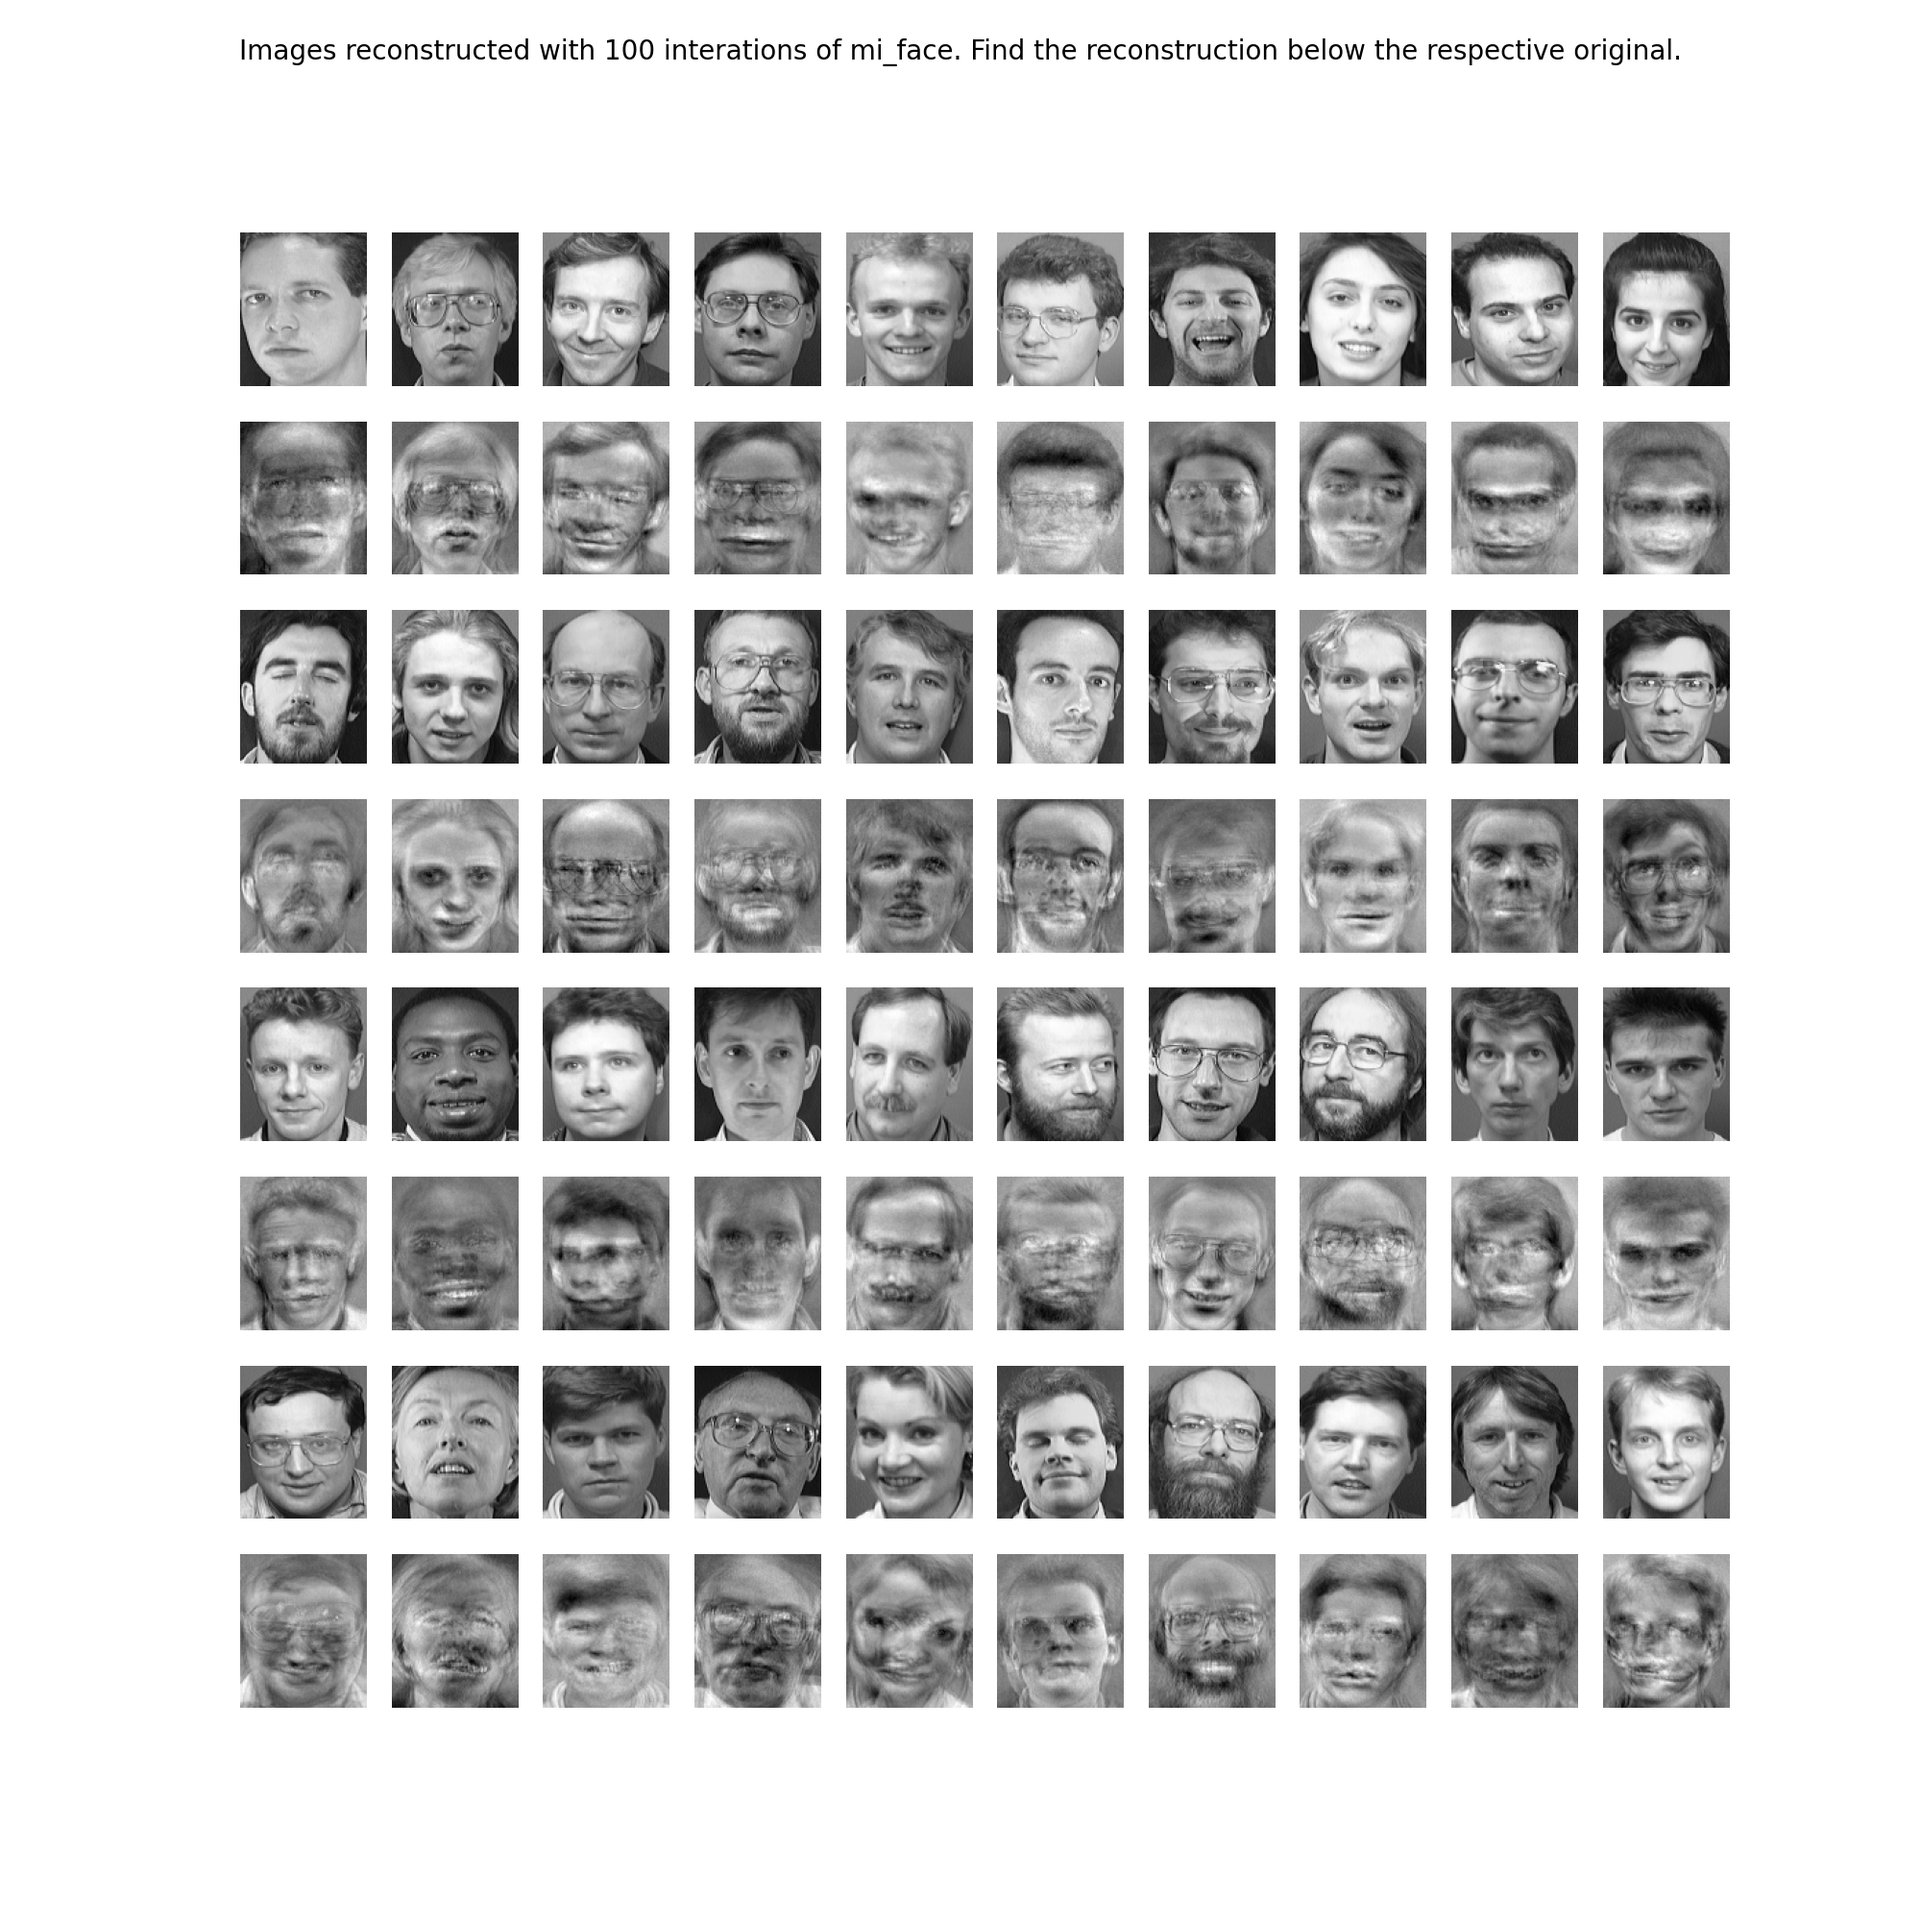
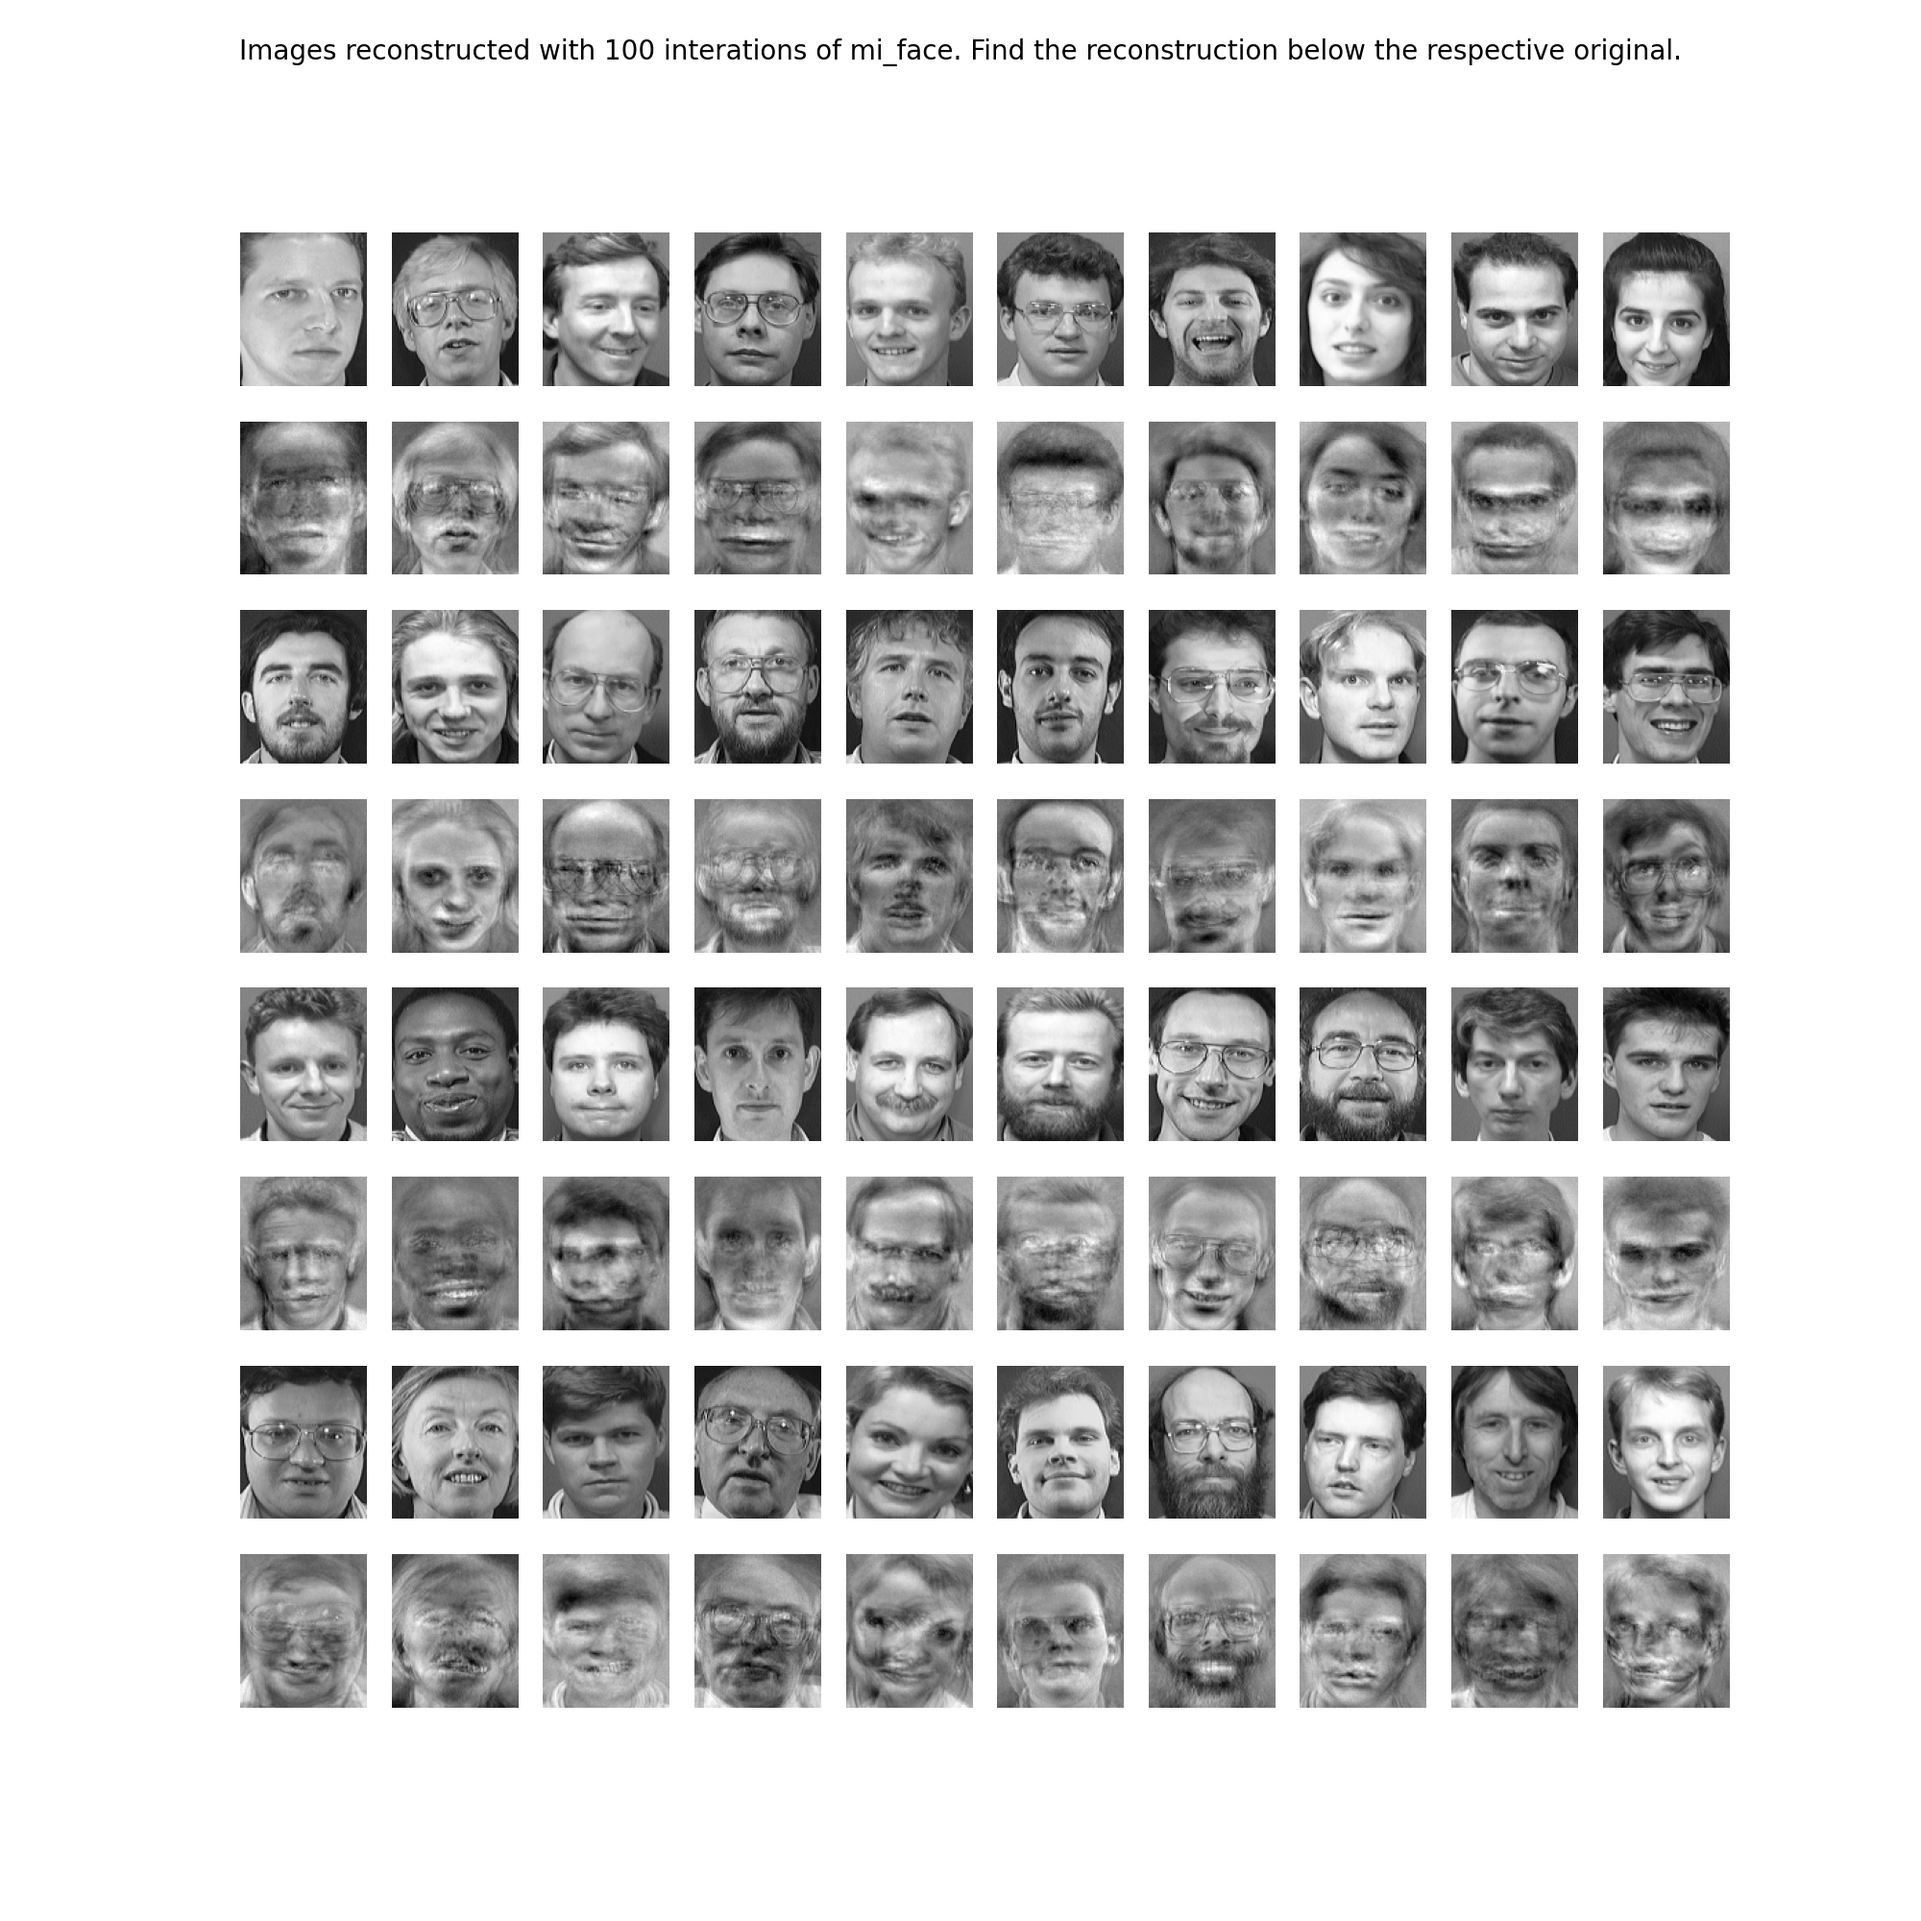
added only softmax loss

diff --git a/ModelInversion/model_inversion.py b/ModelInversion/model_inversion.py
@@ -24,12 +24,11 @@ class MLP(nn.Module):
 
 
 def mi_face(label_index, num_iterations, gradient_step):
-    # set the loss function
-    crit = torch.nn.CrossEntropyLoss()
 
     # initialize two 112 * 92 tensors with zeros
     tensor = torch.zeros(112, 92).unsqueeze(0)
-    image = tensor
+    image = torch.zeros(112, 92).unsqueeze(0)
+
 
     # initialize with infinity
     min_loss = float("inf")
@@ -40,7 +39,13 @@ def mi_face(label_index, num_iterations, gradient_step):
         pred, _ = model(tensor)
 
         # calculate the loss and gardient for the class we want to reconstruct
+        ### use this
+        crit = nn.CrossEntropyLoss()
         loss = crit(pred, torch.tensor([label_index]))
+        ### or this
+        #soft_pred = nn.functional.softmax(pred, 1)
+        #loss = soft_pred.squeeze()[label_index]
+
         loss.backward()
 
         with torch.no_grad():
